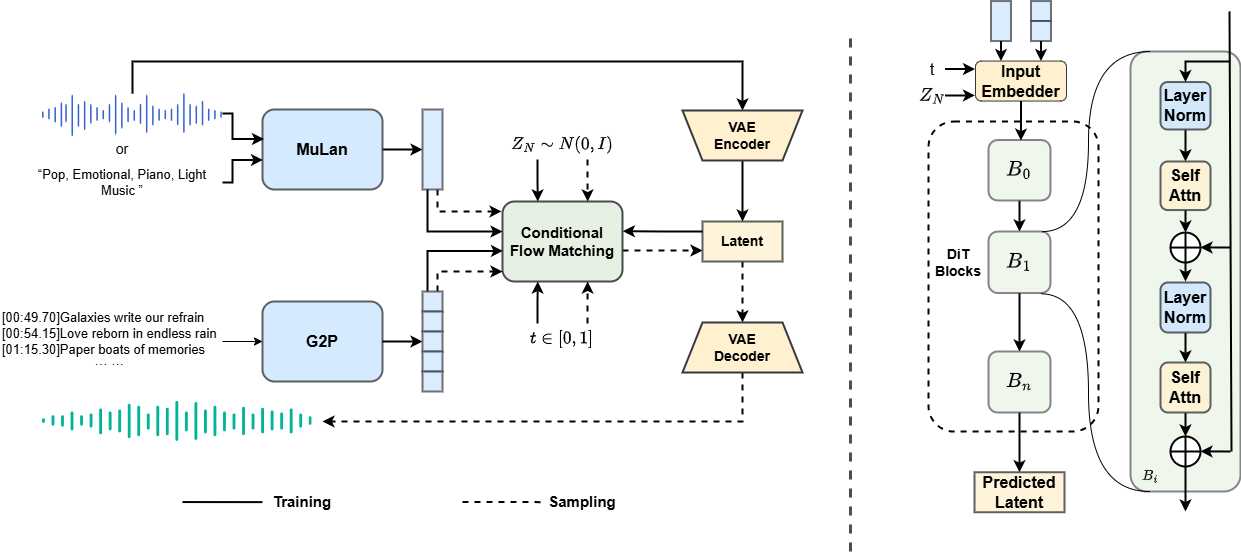
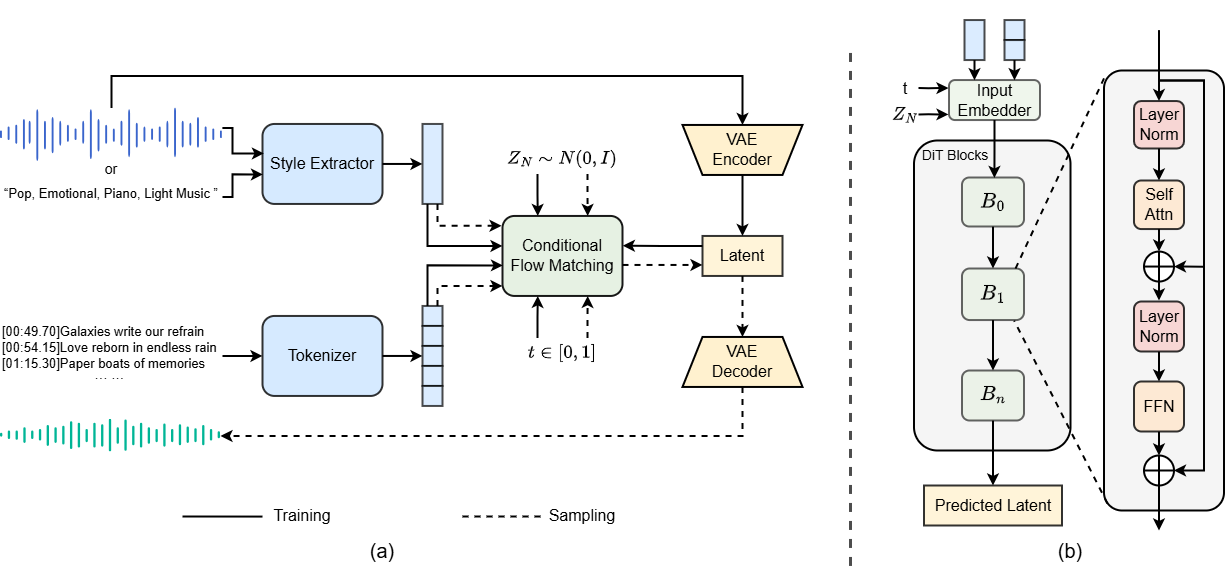
update model fig

diff --git a/index.html b/index.html
@@ -132,8 +132,8 @@
       }
     </style>
     <figure>
-      <img src="raw/figs/diffrhythm_plus_demo_page_model_v3.png" alt="model" width="1000" height="800">
-      <!-- <figcaption>Figure : Architecture of DiffRhythm. </figcaption> -->
+      <img src="raw/figs/diffrhythm_plus_demo_page_model.png" alt="model" width="1000" height="800">
+      <figcaption>Figure : (a) Overview of the DiffRhythm+ architecture. Style descriptions are encoded by a style extractor, and lyrics are tokenized by a text tokenizer; both resulting embeddings serve as external control signals to the DiT-based conditional flow matching module. A VAE module decodes the resulting latent variables to produce the final audio output. (b) Detailed structure of the conditional flow matching module based on DiT. </figcaption>
     </figure>
     <br><br>
 
